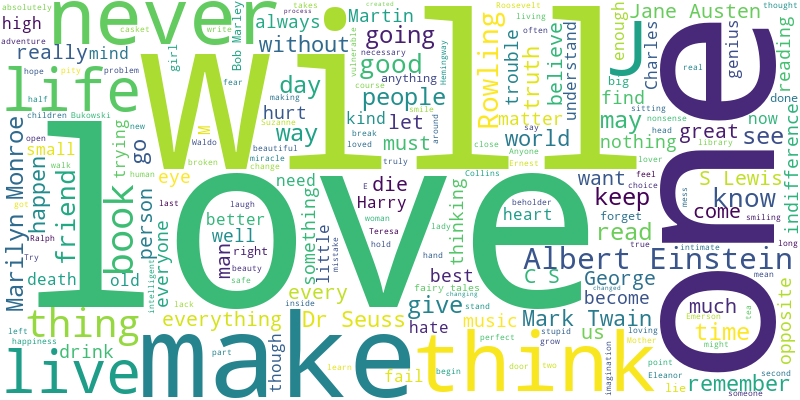
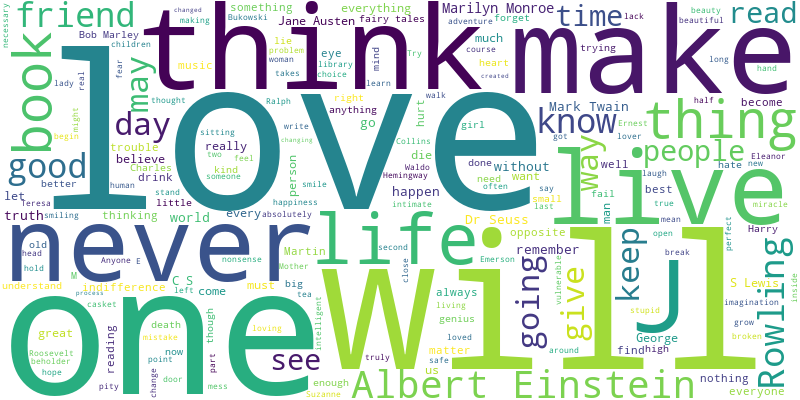
commit

diff --git a/static/style.css b/static/style.css
@@ -1,0 +1,66 @@
+body {
+    font-family: Arial, sans-serif;
+    background-color: #f0f4f8;
+    color: #333;
+    margin: 0;
+    padding: 0;
+}
+
+.container {
+    max-width: 800px;
+    margin: auto;
+    padding: 2rem;
+    background: white;
+    box-shadow: 0 4px 12px rgba(0, 0, 0, 0.1);
+    margin-top: 2rem;
+    border-radius: 8px;
+}
+
+h1 {
+    color: #4a90e2;
+    text-align: center;
+}
+
+input[type="text"],
+input[type="number"],
+textarea {
+    width: 100%;
+    padding: 0.5rem;
+    margin: 1rem 0;
+    border-radius: 4px;
+    border: 1px solid #ccc;
+    font-size: 1rem;
+}
+
+button,
+.button {
+    padding: 0.6rem 1.2rem;
+    border: none;
+    background-color: #4a90e2;
+    color: white;
+    border-radius: 4px;
+    cursor: pointer;
+    text-decoration: none;
+    display: inline-block;
+    margin-top: 1rem;
+}
+
+button:hover,
+.button:hover {
+    background-color: #357ab7;
+}
+
+.buttons {
+    display: flex;
+    gap: 1rem;
+}
+
+textarea {
+    resize: vertical;
+    font-family: inherit;
+}
+
+img {
+    max-width: 100%;
+    margin: 1rem 0;
+}

diff --git a/templates/index.html b/templates/index.html
@@ -1,0 +1,20 @@
+{% extends "layout.html" %}
+{% block content %}
+<form action="/scrape" method="post">
+    <input type="text" name="name" placeholder="Enter your name" required>
+    <button type="submit">🔍 Scrape Quotes</button>
+</form>
+{% endblock %}
+
+<!-- templates/keywords.html -->
+{% extends "layout.html" %}
+{% block content %}
+<img src="/static/wordcloud.png" alt="Word Cloud">
+<p>💡 Keywords from the word cloud:</p>
+<p>{{ keywords|join(', ') }}</p>
+<form action="/search" method="post">
+    <input type="hidden" name="name" value="{{ name }}">
+    <input type="text" name="keywords" placeholder="Enter comma-separated keywords">
+    <button type="submit">Search Quotes</button>
+</form>
+{% endblock %}

diff --git a/templates/results.html b/templates/results.html
@@ -1,0 +1,21 @@
+{% extends "layout.html" %}
+
+{% block content %}
+<p>🔹 Found {{ quotes|length }} matching quote(s):</p>
+<ol>
+    {% for quote in quotes %}
+    <li>{{ quote }}</li>
+    {% endfor %}
+</ol>
+
+<form action="/select" method="post">
+    <input type="hidden" name="name" value="{{ name }}">
+    <input type="hidden" name="keywords" value="{{ keywords }}">
+
+    <label for="choice">Pick a quote number:</label>
+    <input type="number" id="choice" name="choice" min="1" max="{{ quotes|length }}" value="1"
+        placeholder="Enter quote number" title="Choose the quote number you want to style" required>
+
+    <button type="submit">Style and Export</button>
+</form>
+{% endblock %}

diff --git a/templates/styled.html b/templates/styled.html
@@ -1,0 +1,20 @@
+{% extends "layout.html" %}
+
+{% block content %}
+<h2>💬 Your LinkedIn-style post:</h2>
+<textarea id="styledText" rows="10" readonly>{{ styled }}</textarea>
+
+<div class="buttons">
+    <button onclick="copyText()">📋 Copy</button>
+    <a href="/download?name={{ name }}" class="button">📄 Download as DOCX</a>
+</div>
+
+<script>
+    function copyText() {
+        const textArea = document.getElementById("styledText");
+        textArea.select();
+        document.execCommand("copy");
+        alert("Copied to clipboard!");
+    }
+</script>
+{% endblock %}

diff --git a/templates/layout.html b/templates/layout.html
@@ -1,0 +1,19 @@
+<!DOCTYPE html>
+<html lang="en">
+
+<head>
+    <meta charset="UTF-8">
+    <meta name="viewport" content="width=device-width, initial-scale=1.0"> <!-- Added for mobile responsiveness -->
+    <title>Quote Generator</title>
+    <link rel="stylesheet" href="{{ url_for('static', filename='style.css') }}">
+</head>
+
+<body>
+    <div class="container">
+        <h1>✨ Welcome to the Quote Styler ✨</h1>
+        {% block content %}
+        {% endblock %}
+    </div>
+</body>
+
+</html>

diff --git a/app.py b/app.py
@@ -1,0 +1,98 @@
+from flask import Flask, render_template, request, redirect, url_for, send_file
+import random, json, os
+from pathlib import Path
+import requests
+from bs4 import BeautifulSoup
+from wordcloud import WordCloud
+from docx import Document
+
+app = Flask(__name__)
+
+quotes_file = Path("scraped_quotes.json")
+wordcloud_path = "static/wordcloud.png"
+
+def scrape_quotes():
+    url = 'https://quotes.toscrape.com/page/{}/'
+    all_quotes = []
+    page = 1
+    while True:
+        res = requests.get(url.format(page))
+        soup = BeautifulSoup(res.text, 'html.parser')
+        quotes = soup.select('.quote')
+        if not quotes:
+            break
+        for q in quotes:
+            text = q.find('span', class_='text').get_text(strip=True)
+            author = q.find('small', class_='author').text
+            full_quote = f"{text} — {author}"
+            all_quotes.append(full_quote)
+        page += 1
+    with open(quotes_file, "w") as f:
+        json.dump(all_quotes, f, indent=2)
+    return all_quotes
+
+def load_quotes():
+    if quotes_file.exists():
+        with open(quotes_file, 'r') as f:
+            return json.load(f)
+    return []
+
+def generate_wordcloud(quotes):
+    text = " ".join(quotes)
+    wc = WordCloud(width=800, height=400, background_color='white').generate(text)
+    os.makedirs("static", exist_ok=True)
+    wc.to_file(wordcloud_path)
+    keywords = list(set(text.lower().replace('—', '').replace('“', '').replace('”', '').split()))
+    return random.sample(keywords, min(20, len(keywords)))
+
+def style_quote(quote):
+    return (
+        "🔹 **Thought for Today**\n\n"
+        "Every day, I come across words that don’t just fill space — they fill *perspective*.\n"
+        "Here's one that made me pause today:\n\n"
+        f"💬 {quote}\n\n"
+        "Take a moment. Let it sink in. Then move forward with purpose. 🚀\n\n"
+        "#DailyInspiration #MindsetMatters #Leadership #SelfGrowth #LinkedInPosts"
+    )
+
+def export_to_word(name, quote):
+    doc = Document()
+    doc.add_heading(f"LinkedIn Style Quote for {name}", level=1)
+    doc.add_paragraph(quote)
+    file_path = f"static/{name.replace(' ', '_')}_linkedin_quote.docx"
+    doc.save(file_path)
+    return file_path
+
+@app.route('/')
+def index():
+    return render_template('index.html')
+
+@app.route('/scrape')
+def scrape():
+    quotes = scrape_quotes()
+    keywords = generate_wordcloud(quotes)
+    return render_template('keywords.html', keywords=keywords, image_url=url_for('static', filename='wordcloud.png'))
+
+@app.route('/search', methods=['POST'])
+def search():
+    keywords = request.form.get('keywords', '').lower().split(',')
+    quotes = load_quotes()
+    matched = [q for q in quotes if any(k.strip() in q.lower() for k in keywords if k.strip())]
+    if not matched:
+        matched = [random.choice(quotes)]
+    return render_template('results.html', quotes=matched)
+
+@app.route('/select', methods=['POST'])
+def select():
+    selected_quote = request.form['quote']
+    name = request.form['name']
+    styled = style_quote(selected_quote)
+    filepath = export_to_word(name, styled)
+    return render_template('styled.html', styled=styled, file_url=filepath)
+
+@app.route('/download/<path:filename>')
+def download(filename):
+    return send_file(filename, as_attachment=True)
+
+if __name__ == '__main__':
+    app.run(debug=True)
